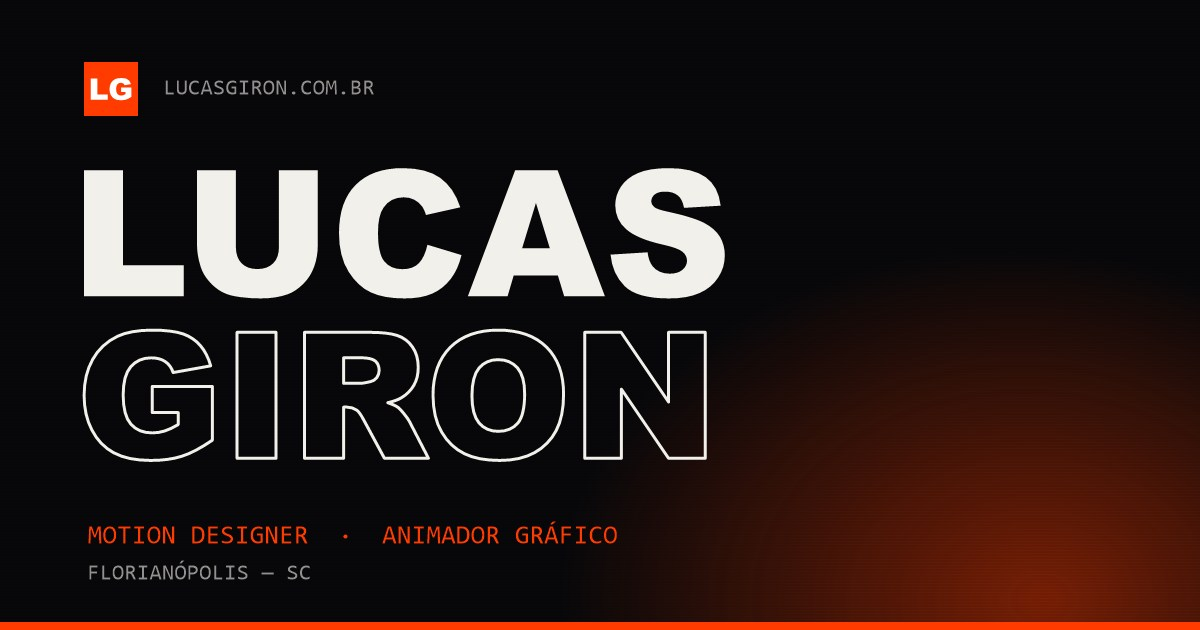
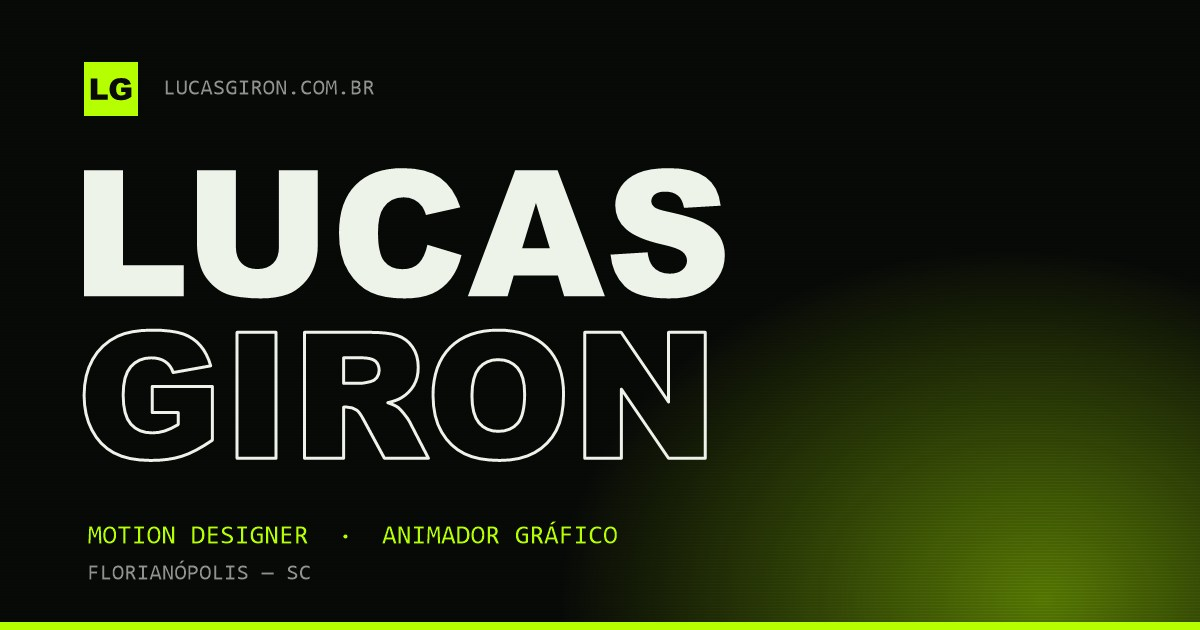
SEO: ícones na cor do tema atual e sameAs só com perfis
- Ícones e imagem de compartilhamento regerados no verde ácido publicado
  (#B6FF00, texto escuro); o gerador ganhou -OnAccent para a cor do texto
- sameAs deixa de fora links de conversa (WhatsApp, Telegram): o campo é
  para perfis e não deve expor o número nos dados estruturados

diff --git a/api/_seo.js b/api/_seo.js
@@ -169,7 +169,9 @@ function jsonLd(c, canonical) {
   const image = c.seo?.ogImage ? abs(c.seo.ogImage, canonical) : undefined;
   const desc = plain(c.seo?.description) || plain(c.hero?.lede);
   const modified = c.savedAt ? String(c.savedAt) : undefined;
-  const links = [...new Set((c.contact?.links || []).map(l => l && l.url).filter(u => /^https?:\/\//i.test(u || '')))];
+  // sameAs é só para perfis (Instagram, Vimeo, LinkedIn…), não para links de conversa
+  const isProfile = u => /^https?:\/\//i.test(u || '') && !/(^|\.)(whatsapp\.com|wa\.me|t\.me)$/i.test(hostOf(u));
+  const links = [...new Set((c.contact?.links || []).map(l => l && l.url).filter(isProfile))];
   const services = [...new Set((c.about?.lists || []).flatMap(l => (l.items || []).map(i => i && i.name)).filter(Boolean))];
 
   const personNode = {
